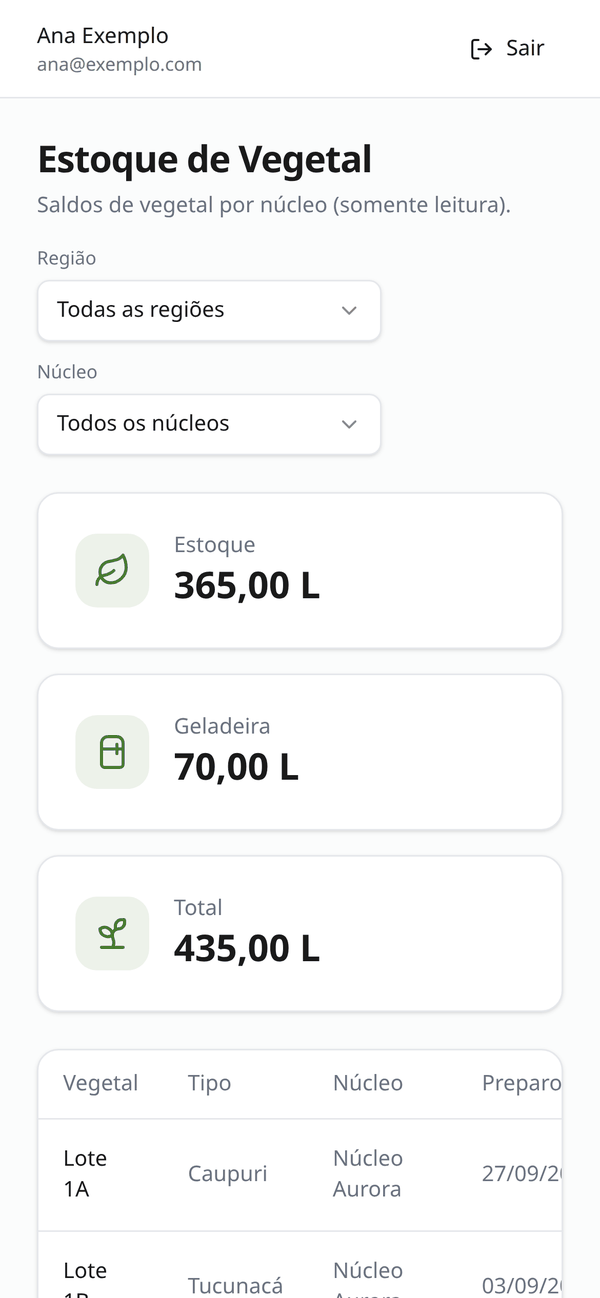
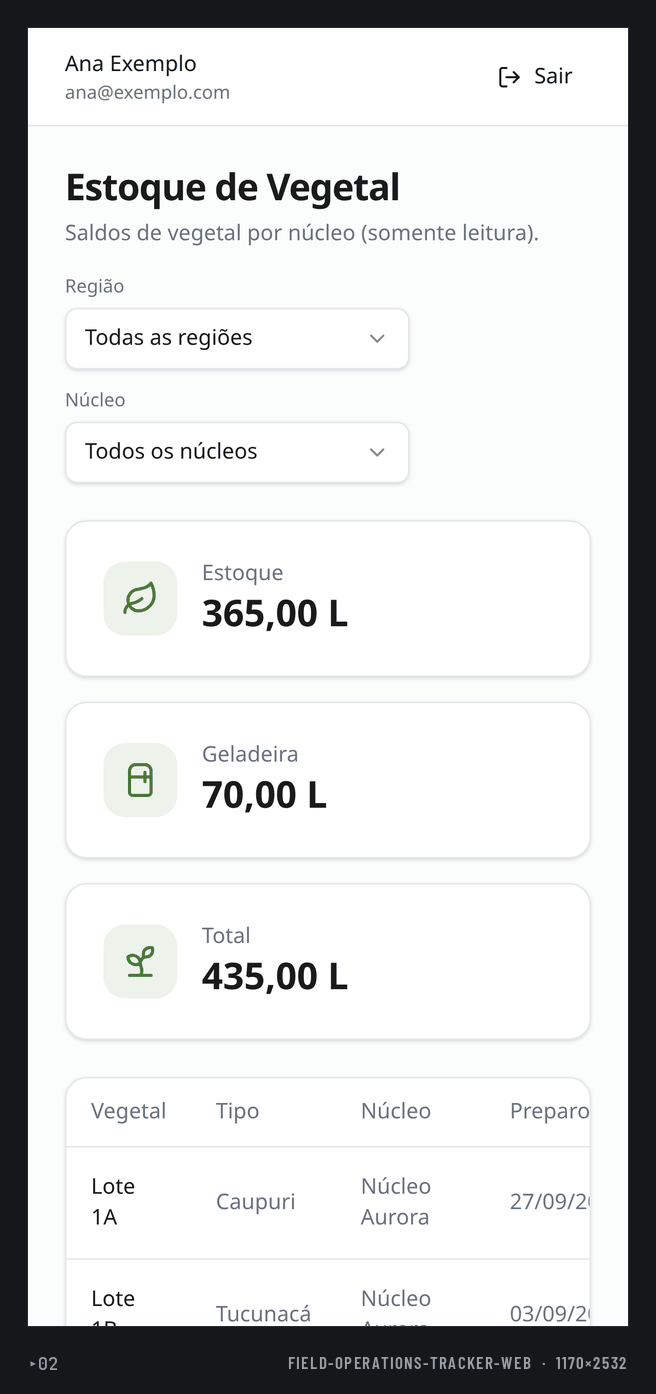
brand: framed screenshots and diagram palette

diff --git a/README.md b/README.md
@@ -38,6 +38,7 @@ Admin panel with fictitious seed data injected by intercepting API requests (no 
 ## Architecture
 
 ```mermaid
+%%{init: {"theme":"base","themeVariables":{"background":"#0B0C0E","primaryColor":"#15171B","primaryTextColor":"#E6E8EB","primaryBorderColor":"#9AA0A8","secondaryColor":"#1E2126","tertiaryColor":"#1E2126","lineColor":"#9AA0A8","textColor":"#E6E8EB","clusterBkg":"#101216","clusterBorder":"#2A2E35","edgeLabelBackground":"#0B0C0E","actorBkg":"#15171B","actorBorder":"#9AA0A8","actorTextColor":"#E6E8EB","signalColor":"#9AA0A8","signalTextColor":"#E6E8EB","noteBkgColor":"#1E2126","noteTextColor":"#E6E8EB","noteBorderColor":"#2A2E35","fontFamily":"ui-monospace, SFMono-Regular, Menlo, monospace","fontSize":"13px"}, "flowchart":{"curve":"linear","nodeSpacing":40,"rankSpacing":48,"padding":12}}}%%
 flowchart LR
   Mobile["field-operations-tracker-app (records data)"] -->|REST| API["field-operations-tracker-api"]
   Web["field-operations-tracker-web (this repo)"] -->|"REST, HttpOnly cookies"| API
@@ -47,6 +48,7 @@ flowchart LR
 ```
 
 ```mermaid
+%%{init: {"theme":"base","themeVariables":{"background":"#0B0C0E","primaryColor":"#15171B","primaryTextColor":"#E6E8EB","primaryBorderColor":"#9AA0A8","secondaryColor":"#1E2126","tertiaryColor":"#1E2126","lineColor":"#9AA0A8","textColor":"#E6E8EB","clusterBkg":"#101216","clusterBorder":"#2A2E35","edgeLabelBackground":"#0B0C0E","actorBkg":"#15171B","actorBorder":"#9AA0A8","actorTextColor":"#E6E8EB","signalColor":"#9AA0A8","signalTextColor":"#E6E8EB","noteBkgColor":"#1E2126","noteTextColor":"#E6E8EB","noteBorderColor":"#2A2E35","fontFamily":"ui-monospace, SFMono-Regular, Menlo, monospace","fontSize":"13px"}, "flowchart":{"curve":"linear","nodeSpacing":40,"rankSpacing":48,"padding":12}}}%%
 flowchart TB
   Routes["App.tsx routes"] --> Guard["ProtectedRoute"]
   Guard --> Layout["AppLayout"]
